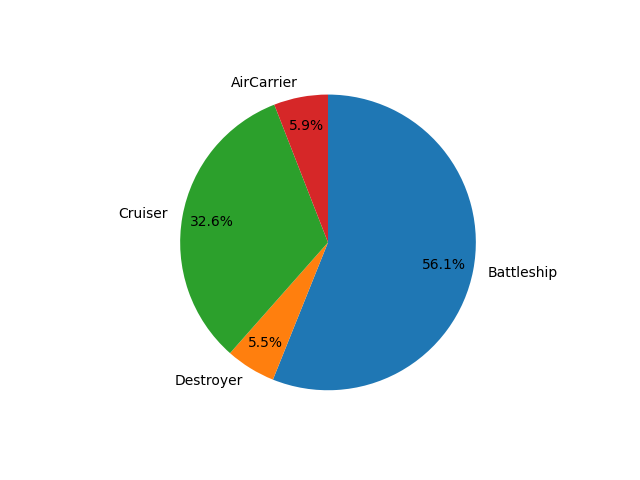
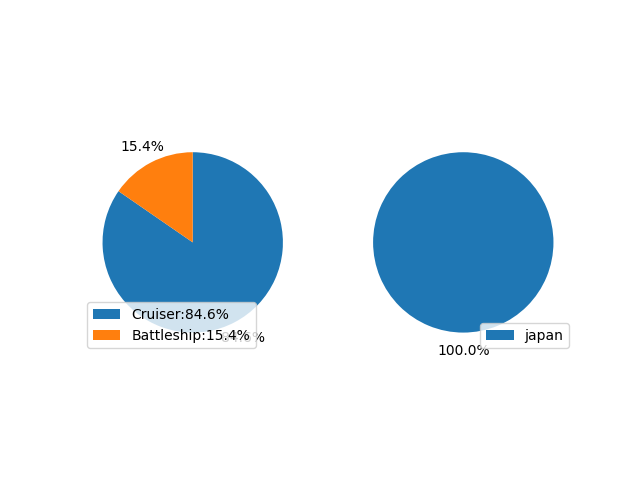
first commit

Changed region(s): [[0.125, 0.1562, 0.875, 0.8125], [0.2812, 0.7812, 0.375, 0.8125]]

diff --git a/wows/wows.py b/wows/wows.py
@@ -1,22 +1,38 @@
 import requests
 import os
 import json
-from dictionary import Dict
-api=os.getenv("wows_api")
-access_token=os.getenv("access_token")
-class NoPlayerFound(Exception):
-  pass
-class Wows:
-  def __init__(self,conv=dict):
-    self.conv=conv
+from .utility.dictionary import Dict
+from .player import Player
+from .ship import Ship
+
+
+class App:
+  def __init__(self,application_id,convert=False):
+    self.conv=Dict if convert else dict
+    self.application_id=application_id
   def conv2url(self,about,**params):
     param="".join([f"&{i}={params[i]}" for i in params])
     if about.count("/")==1:
-      return f"https://api.worldofwarships.asia/wows/{about}/?application_id={api}{param}"
-  def get_json(self,about,**params) -> dict:
+      return f"https://api.worldofwarships.asia/wows/{about}/?application_id={self.application_id}{param}"
+  
+  def _get_json(self,about,**params) -> dict:
     data=json.loads(requests.get(self.conv2url(about,**params)).content)
     return data
-  def _get_player_id(self,locale,name) -> dict:
+
+  def get_player(self,name,locale=None):
+    player=Player(self.application_id,name,locale)
+    return player
+
+  def get_ship(self,name_or_id):
+    ship=Ship(self.application_id,name_or_id)
+    return ship
+
+
+
+
+    
+  
+"""  def _get_player_id(self,locale,name) -> dict:
     url=f"https://api.worldofwarships.{locale}/wows/account/list/?application_id={api}&search={name}"
     req=requests.get(url).content
     ret=json.loads(req)
@@ -24,15 +40,23 @@ class Wows:
       return ret["data"]
     else:
       raise NoPlayerFound("Player Not Found")
+  
   def get_player(self,locale,name):
     
       pid=self._get_player_id(locale,name)[0]["account_id"]
       return self.conv(json.loads(requests.get(f"https://api.worldofwarships.{locale}/wows/account/info/?application_id={api}&account_id={pid}&extra=private.port&access_token={access_token}").content)["data"][str(pid)])
     #except:
      # return NoPlayerFound("player not found")
+
+  def _get_player_shiprate(self,locale,name):
+    pass
+  
   def get_player_ships(self,locale,name):
     pid=self._get_player_id(locale,name)[0]["account_id"]
-    return json.loads(requests.get(f"https://api.worldofwarships.asia/wows/ships/stats/?application_id={api}&account_id={pid}").content)["data"][str(pid)]
+    resp=json.loads(requests.get(f"https://api.worldofwarships.asia/wows/ships/stats/?application_id={api}&account_id={pid}").content)["data"][str(pid)]
+    resp[""]
+    return 
+  
   def _get_ship_id(self,name):
     for i in range(1,100):
       ships=self.get_json("encyclopedia/ships",page_no=i,language="ja")
@@ -42,6 +66,7 @@ class Wows:
             return i
       except Exception as e:
         raise e
+  
   def get_ship_data(self,name):
     try:
       sid=self._get_ship_id(name) if isinstance(name,str) else name
@@ -51,6 +76,7 @@ class Wows:
       return self.conv(data["data"][str(sid)])
     except Exception as e:
       raise e
+  
   def get_arena(self,name=None):
     data=self.get_json("encyclopedia/battlearenas",language="ja")
     if not name:
@@ -58,4 +84,4 @@ class Wows:
     else:
       for i in data["data"]:
         if data["data"][i]["name"]==name:
-          return self.conv(data["data"][i])
+          return self.conv(data["data"][i])"""

diff --git a/wows/player.py b/wows/player.py
@@ -1,0 +1,92 @@
+import requests
+import json
+from .exception import *
+from .ship import Ship
+import matplotlib.pyplot as plt
+
+class Player:
+  def __init__(self,application_id,name,locale=None):
+    locations=["asia","eu","ne"]
+    self.usingships=None
+    self.draw=None
+    self.application_id=application_id
+    if locale:
+      res=self._get_player_id(name,locale)
+      self.account_id=res["account_id"]
+      self.locale=locale
+      self.name=res["nickname"]
+    else:
+      for i in locations:
+        try:
+          res=self._get_player_id(name,i)
+        except:
+          continue
+        if res:
+          break
+      if res:
+        self.locale=i
+        self.name=res["nickname"]
+        self.account_id=res["account_id"]
+    self.value=self._get_player()
+  
+  def _get_player_id(self,name,locale) -> dict:
+    url=f"https://api.worldofwarships.{locale}/wows/account/list/?application_id={self.application_id}&search={name}"
+    req=requests.get(url).content
+    ret=json.loads(req)
+    if ret["status"]=="ok":
+      return ret["data"][0]
+    else:
+      raise PlayerNotFound("Player Not Found")
+
+  def _get_player(self):
+    
+      pid=self._get_player_id(self.name,self.locale)["account_id"]
+      return json.loads(requests.get(f"https://api.worldofwarships.{self.locale}/wows/account/info/?application_id={self.application_id}&account_id={pid}").content)["data"][str(pid)]
+  def using_ships(self):
+    resp=json.loads(requests.get(f"https://api.worldofwarships.asia/wows/ships/stats/?application_id={self.application_id}&account_id={self.account_id}").content)["data"][str(self.account_id)]
+    self.usingships=resp
+    return resp
+  def get_rate(self):
+    if not self.usingships:
+      self.using_ships()
+    types={}
+    nations={}
+    for ship in self.usingships:
+      sh=Ship(self.application_id,ship["ship_id"]).value["details"]
+      if sh["type"] in types:
+        types[sh["type"]][sh["name"]]=ship["battles"]
+      else:
+        types[sh["type"]]={sh["name"]:ship["battles"]}
+      if sh["nation"] in nations:
+        nations[sh["nation"]]+=ship["battles"]
+      else:
+        nations[sh["nation"]]=ship["battles"]
+        self.draw={"type":types,"nation":nations}
+    return {"type":types,"nation":nations}
+  def save_fig(self,path):
+    if not self.draw:
+      self.get_rate()
+    types=self.draw["type"]
+    nations=self.draw["nation"]
+    fig=plt.figure()
+    ax1=fig.add_subplot(1,2,1)
+    ax2=fig.add_subplot(1,2,2)
+    x=[]
+    n=[]
+    labels=list(types.keys())
+    for i in types:
+      count=0
+      for k in types[i]:
+        count+=types[i][k]
+      x.append(count)
+    percent=["{:.1f}".format(i*100/sum(x)) for i in x]
+    ax1.pie(x, startangle=90, counterclock=False,  autopct='%.1f%%', pctdistance=1.2)
+    ax1.legend([f"{i}:{j}%" for i,j in zip(labels,percent)],loc="lower left")
+    for i in nations:
+      n.append(nations[i])
+    per=["{:.1f}".format(i*100/sum(n)) for i in n]
+    label=list(nations.keys())
+    ax2.pie(n,startangle=90, counterclock=False,  autopct='%.1f%%', pctdistance=1.2)
+    ax2.legend([f"" for i,j in zip()],loc="lower right")
+    plt.savefig(path)
+    

diff --git a/wows/ship.py b/wows/ship.py
@@ -1,0 +1,30 @@
+from .exception import *
+from .utility.utils import get_json
+
+class Ship:
+  def __init__(self,application_id,name_or_id):
+    self.application_id=application_id
+    if isinstance(name_or_id,int):
+      self.id=name_or_id
+    elif name_or_id.isdigit():
+      self.id=int(name_or_id)
+    else:
+      self.id=self._get_ship_id(name_or_id)
+    self.value=self._get_ship_data()
+  
+  def _get_ship_id(self,name):
+    for i in range(1,100):
+      ships=get_json(self.application_id,"encyclopedia/ships",page_no=i,language="ja")
+      for sh in ships["data"]:
+        if ships["data"][sh]["name"]==name:
+          return sh
+    raise ShipNotFound("ship not found")
+
+  
+  def _get_ship_data(self):
+      sid=self.id
+      details=get_json(self.application_id,"encyclopedia/ships",ship_id=sid,language="ja")["data"][str(sid)]
+      data=get_json(self.application_id,"encyclopedia/shipprofile",ship_id=sid,language="ja")
+      data["data"][str(sid)]["details"]=details
+      return data["data"][str(sid)]
+  

diff --git a/main.py b/main.py
@@ -1,14 +1,14 @@
-import wows
-from dictionary import Dict
+from wows import wows
 import json
 import requests
 import os
 import matplotlib.pyplot as plt
-wows=wows.Wows()
-api=os.getenv("wows_api")
-val={}
 
-for ship in wows.get_player_ships("asia","googlecom_accurate"):
+api=os.getenv("wows_api")
+app=wows.App(api)
+print(app.get_player("ziruconoob").save_fig("wows.png"))
+"""
+for ship in wows.get_player_ships("asia","ziruconoob"):
   sh=wows.get_ship_data(ship["ship_id"])["details"]
   if sh["type"] in val:
     val[sh["type"]][sh["name"]]=ship["battles"]
@@ -23,7 +23,7 @@ for i in val:
     m+=val[i][k]
   x.append(m)
 plt.pie(x, startangle=90, counterclock=False,  autopct='%.1f%%', pctdistance=0.8, labels=labels)
-plt.savefig("wows.png")
+plt.savefig("wows.png")"""
 
 
 #https://api.worldoftanks.asia/wot/auth/login/?application_id=

diff --git a/wows/utility/utils.py b/wows/utility/utils.py
@@ -1,0 +1,11 @@
+import requests
+import json
+
+def conv2url(appid,about,**params):
+    param="".join([f"&{i}={params[i]}" for i in params])
+    if about.count("/")==1:
+      return f"https://api.worldofwarships.asia/wows/{about}/?application_id={appid}{param}"
+  
+def get_json(appid,about,**params) -> dict:
+    data=json.loads(requests.get(conv2url(appid,about,**params)).content)
+    return data

diff --git a/wows/exception/exceptions.py b/wows/exception/exceptions.py
@@ -1,0 +1,6 @@
+class PlayerNotFound(Exception):
+  pass
+class ShipNotFound(Exception):
+  pass
+class ArenaNotFound(Exception):
+  pass

diff --git a/wows/exception/__init__.py b/wows/exception/__init__.py
@@ -1,0 +1,3 @@
+from .exceptions import PlayerNotFound
+from .exceptions import ShipNotFound
+from .exceptions import ArenaNotFound
